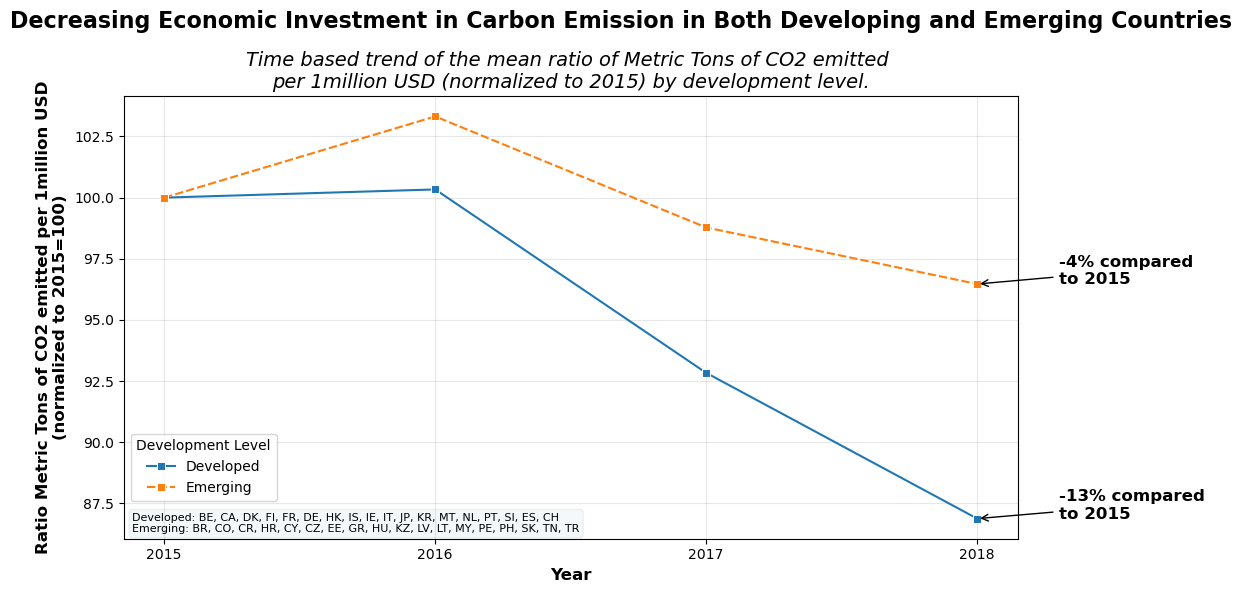
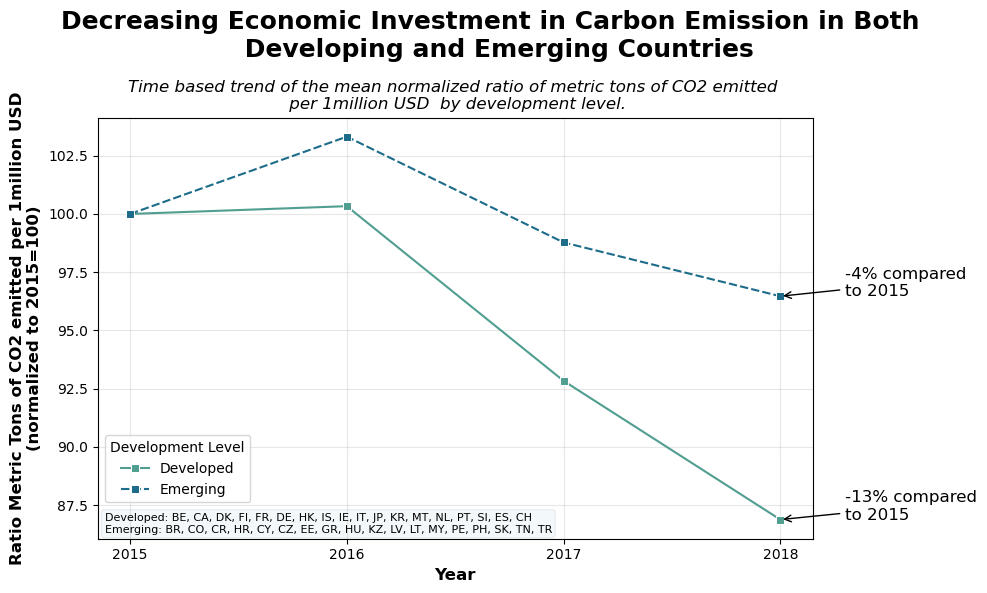
finished fig2

diff --git a/index.html b/index.html
@@ -179,7 +179,7 @@
         <h3>AGAINST the Proposition</h3>
 
         <figure>
-          <img src="IMAGE_FILENAME" alt="" />
+          <img src="./images/fig2.png" alt="" />
           <figcaption>BRIEF CAPTION HERE.</figcaption>
         </figure>
 

diff --git a/figure_code/final_vis.py b/figure_code/final_vis.py
@@ -1,0 +1,162 @@
+# imports
+import pandas as pd
+import numpy as np
+import matplotlib.pyplot as plt
+import seaborn as sns
+from pathlib import Path
+
+
+path = Path("./dataset/22_Carbon_Footprint_of_Bank_Loans.csv")
+df = pd.read_csv(path)
+
+# transform data to long format
+df_long = df.copy().melt(
+    id_vars=["Country", "ISO2", "ISO3", "Indicator", "Unit", "Source", "CTS Code", "CTS Name", "CTS Full Descriptor"],
+    var_name="Year",
+    value_name="Value"
+)
+
+df_long["Year"]=df_long["Year"].astype(int)
+df_long=df_long.sort_values(["Country","Year"]).reset_index(drop=True)
+
+df_pivot = df_long.pivot_table(
+    index=["Country", "ISO2", "ISO3", "Year"],
+    columns="CTS Code",
+    values="Value"
+).reset_index()
+
+# Economic Development Groups
+development_groups = {
+    'Developed': ['BE', 'CA', 'DK', 'FI', 'FR', 'DE', 'HK', 'IS', 'IE',
+                  'IT', 'JP', 'KR', 'MT', 'NL', 'PT', 'SI', 'ES', 'CH'],
+    'Emerging': ['BR', 'CO', 'CR', 'HR', 'CY', 'CZ', 'EE', 'GR', 'HU',
+                 'KZ', 'LV', 'LT', 'MY', 'PE', 'PH', 'SK', 'TN', 'TR'],
+    #'Developing': ['BN', 'ID', 'BG']  # Note: Added BG to developing based on common classifications
+}
+
+def get_development(country_code):
+    for dev_level, countries in development_groups.items():
+        if country_code in countries:
+            return dev_level
+    return np.nan
+
+# Filter for years after 2015
+df_2015 = df_pivot[df_pivot['Year'] >= 2015].copy()
+df_2015['development'] = df_2015['ISO2'].apply(get_development)
+
+# Group by Development and Year
+development_means = df_2015.groupby(['development', 'Year']).agg({
+    'ECFLIN': 'mean',
+    'ISO2': 'count'
+}).rename(columns={'ISO2': 'ISO2'}).reset_index()
+
+# figure 1
+plt.figure(figsize=(10, 6))
+sns.lineplot(data=development_means, x='Year', y='ECFLIN',
+             hue='development', marker='s', style='development', palette="crest")
+plt.suptitle("Decreasing Economic Investment in Carbon Emission in Both \n Developing and Emerging Countries", fontsize=18, fontweight="bold")
+plt.title('Time based trend of the mean normalized ratio of metric tons of CO2 emitted \n per 1million USD  by development level.', fontsize=12, style='italic')
+plt.xticks(range(2015,2019,1))
+plt.ylabel('Ratio Metric Tons of CO2 emitted per 1million USD\n(normalized to 2015=100)', fontsize=12,  fontweight="bold")
+plt.xlabel("Year", fontsize=12, fontweight="bold")
+
+## emerging annotations
+emerging_annotation_loc =  (2018, development_means.query("Year == 2018 and development == 'Emerging'")['ECFLIN'].values[0])
+emerging_ECLFIN_diff = 100 - emerging_annotation_loc[1] 
+plt.annotate(
+    f"-{emerging_ECLFIN_diff:.0f}% compared\nto 2015",
+    xy=emerging_annotation_loc,
+    xytext = (emerging_annotation_loc[0]+0.3, emerging_annotation_loc[1]),
+    arrowprops=dict(arrowstyle="->"),
+    fontsize=12
+)
+
+## emerging annotations
+developed_annotation_loc =  (2018, development_means.query("Year == 2018 and development == 'Developed'")['ECFLIN'].values[0])
+developed_ECLFIN_diff = 100 - developed_annotation_loc[1] 
+plt.annotate(
+    f"-{developed_ECLFIN_diff:.0f}% compared\nto 2015",
+    xy=developed_annotation_loc,
+    xytext = (developed_annotation_loc[0]+0.3, developed_annotation_loc[1]),
+    arrowprops=dict(arrowstyle="->"),
+    fontsize=12
+)
+
+textstr = (
+    "Developed: BE, CA, DK, FI, FR, DE, HK, IS, IE, IT, JP, KR, MT, NL, PT, SI, ES, CH\n"
+    "Emerging: BR, CO, CR, HR, CY, CZ, EE, GR, HU, KZ, LV, LT, MY, PE, PH, SK, TN, TR"
+)
+
+plt.gca().text(0.01, 0.01, textstr, transform=plt.gca().transAxes,
+               fontsize=8, va='bottom', ha='left',
+               bbox=dict(boxstyle='round,pad=0.3', alpha=0.05))
+
+plt.grid(True, alpha=0.3)
+plt.legend(title='Development Level', bbox_to_anchor=(0.0005,0.07), loc='lower left')
+plt.tight_layout()
+
+# figure 2
+
+top_emitters = ["Kazakhstan, Rep. of", "Philippines", "Türkiye, Rep. of", "Indonesia","Tunisia"]
+
+top_emitters_df = df_long[df_long['Country'].isin(top_emitters)]
+top_emitters_df = top_emitters_df[top_emitters_df['Year']>=2011]
+top_emitters_df =top_emitters_df[top_emitters_df['CTS Code']=='ECFLI']
+top_emitters_df = top_emitters_df.sort_values(["Country", "Year"])
+
+plt.figure(figsize=(8,6))
+sns.lineplot(
+    data=top_emitters_df,
+    x="Year",
+    y="Value",
+    hue="Country",
+    hue_order=top_emitters,
+    alpha=0.5,
+    linewidth=2,
+    palette="crest"
+)
+sns.scatterplot(
+    data=top_emitters_df,
+    x="Year",
+    y="Value",
+    hue="Country",
+    alpha=1,
+    palette="crest",
+    legend=False
+)
+plt.suptitle("Increasing Carbon Footprint of Bank Loans \nin Key Emerging Economies", fontsize=18, fontweight="bold")
+plt.title("Time based trend of raw emission for amount loaned in top emitters of emerging countries.", fontsize=12, style="italic")
+plt.tight_layout()
+plt.xticks(range(2011,2019,1))
+plt.grid(True,alpha=0.3)
+plt.ylabel("Metric Carbon Tons per $1M USD Loaned", fontsize=12, fontweight="bold")
+plt.xlabel("Year", fontsize=12,fontweight="bold")
+
+## Legened
+new_labels=["Kazakhstan", "Philippines","Türkiye","Indonesia", "Tunisia" ]
+ax=plt.gca()
+rename_map = {top_emitters[i] : new_labels[i] for i in range(len(new_labels))}
+handles, labels=ax.get_legend_handles_labels()
+new_labels = [rename_map.get(lbl,lbl) for lbl in labels]
+ax.legend(handles, new_labels, title="Top Emitters")
+
+# annotations
+per_country_difference = top_emitters_df.query('Year==2018').sort_values(by="Country")['Value'].reset_index()['Value'] - top_emitters_df.query('Year==2011').sort_values(by='Country')['Value'].reset_index()['Value']
+
+diffs = { sorted(top_emitters)[i] : per_country_difference[i] for i in range(len(top_emitters))}
+
+for country, diff in diffs.items(): 
+
+    sub = top_emitters_df[(top_emitters_df["Country"] == country) &
+                          (top_emitters_df["Year"] == 2018)] 
+    
+    x = sub["Year"].values[0]
+    y = sub["Value"].values[0]
+
+    
+    text = f"+{diff:.0f} Tons per 1mil USD "
+    ax.annotate(text,
+            xy=(x, y),
+            xytext=(x + 0.5, y ),
+            fontsize=10,
+            arrowprops=dict(arrowstyle="->"))
